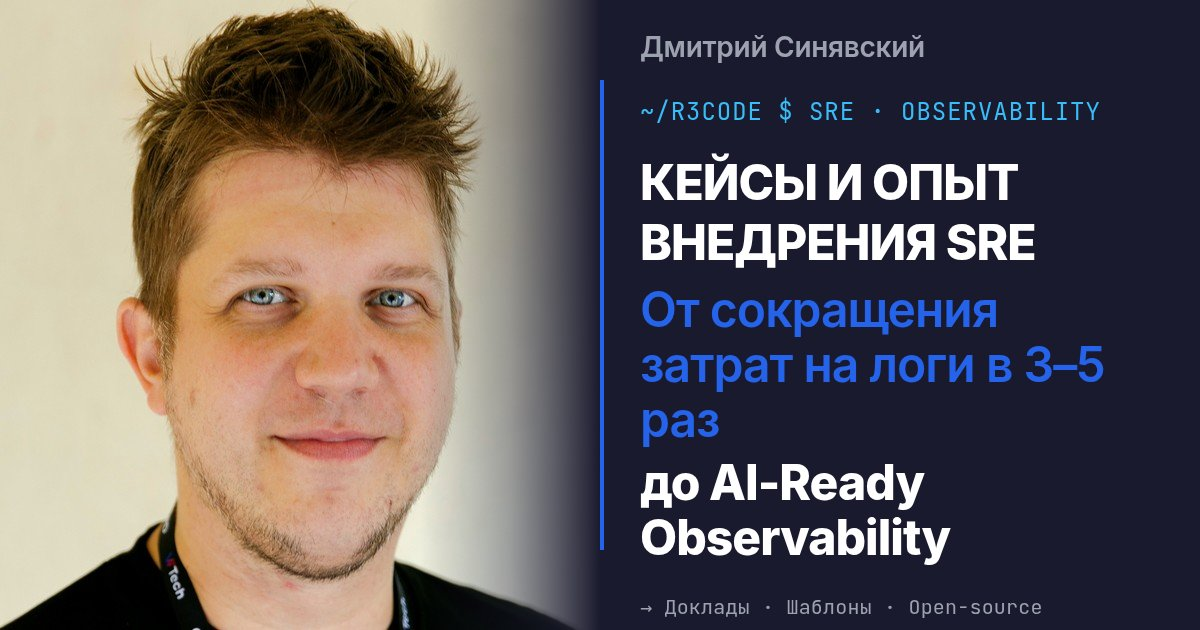
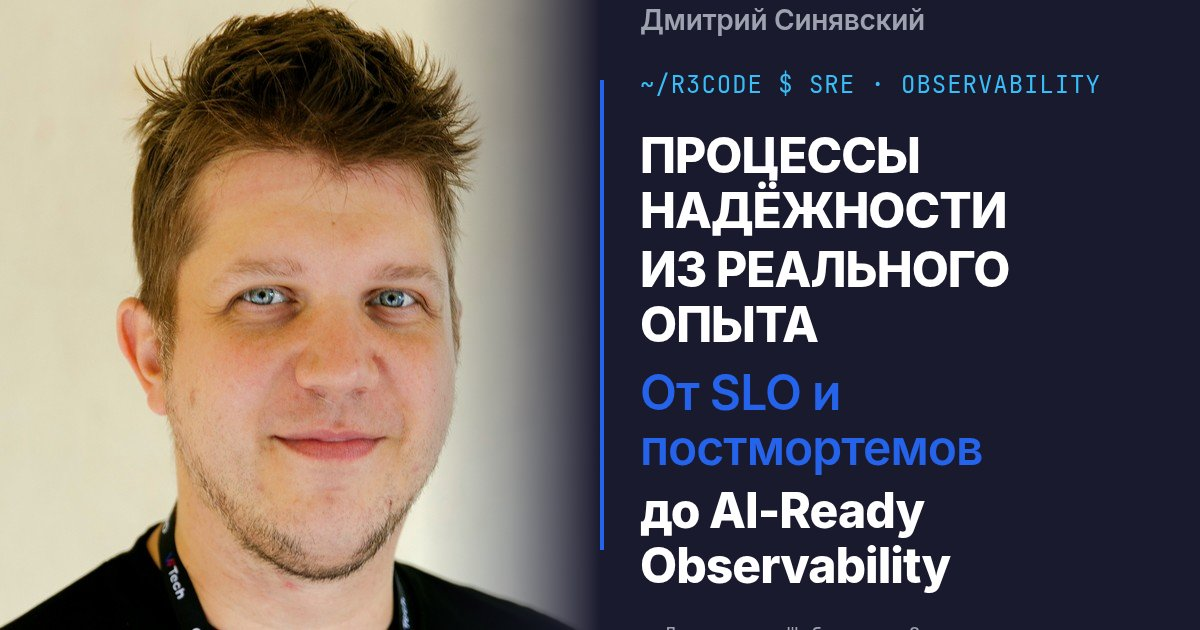
Sync <title>, OG metadata and OG image with new Hero H1
- BaseLayout <title>: «Кейсы и опыт внедрения SRE» → «SRE-практика: оптимизация логов, SLO, AI-Ready Observability»
- JSON-LD WebSite.name updated accordingly
- og:image:alt / twitter:image:alt updated to new H1 wording
- og_source.html headlines: «ПРОЦЕССЫ НАДЁЖНОСТИ / ИЗ РЕАЛЬНОГО ОПЫТА / От SLO и постмортемов / до AI-Ready Observability»
- public/og.jpg regenerated via Playwright (99090 bytes, all 3 pixel checks pass)
- docs/OG-IMAGE.md: composition diagram and font table updated

Changed region(s): [[0.5242, 0.1206, 0.925, 1.0], [0.5242, 0.0, 0.7708, 0.0905], [0.74, 0.9952, 0.7708, 1.0]]

diff --git a/scripts/og_source.html b/scripts/og_source.html
@@ -140,10 +140,10 @@
 
     <div class="eyebrow">~/R3CODE $ SRE · OBSERVABILITY</div>
 
-    <div class="headline headline-gap">КЕЙСЫ И ОПЫТ</div>
-    <div class="headline headline-gap">ВНЕДРЕНИЯ SRE</div>
+    <div class="headline headline-gap">ПРОЦЕССЫ НАДЁЖНОСТИ</div>
+    <div class="headline headline-gap">ИЗ РЕАЛЬНОГО ОПЫТА</div>
 
-    <div class="accent-line">От сокращения затрат на логи в 3–5 раз</div>
+    <div class="accent-line">От SLO и постмортемов</div>
 
     <div class="headline">до AI-Ready Observability</div>
 

diff --git a/docs/OG-IMAGE.md b/docs/OG-IMAGE.md
@@ -13,12 +13,13 @@ Telegram, LinkedIn, VK. Это первое, что видят — должно 
 │   ФОТО 600×630    │  ─────────────────  │
 │   (предобработано  │  ~/R3CODE $ SRE...  │
 │    в Python,       │                    │
-│    лицо видно       │  КЕЙСЫ И ОПЫТ      │
-│    полностью)       │  ВНЕДРЕНИЯ SRE     │
-│                    │  От сокращения...   │
-│   Градиент         │  до AI-Ready...    │
-│   на правом краю   │                    │
-│   фото (маска)     │  → Доклады · ...   │
+│    лицо видно       │  ПРОЦЕССЫ НАДЁЖ-   │
+│    полностью)       │  НОСТИ              │
+│                    │  ИЗ РЕАЛЬНОГО ОПЫТА │
+│   Градиент         │  От SLO и постморт. │
+│   на правом краю   │  до AI-Ready...    │
+│   фото (маска)     │                    │
+│                    │  → Доклады · ...   │
 │                    │                    │
 │   600px            │  600px             │
 └────────────────────┴────────────────────┘
@@ -49,9 +50,9 @@ Telegram, LinkedIn, VK. Это первое, что видят — должно 
 |---|---|---|---|
 | «Дмитрий Синявский» | Inter | 600 | 28px |
 | `~/R3CODE $ SRE · OBSERVABILITY` | JetBrains Mono | 400 | 24px |
-| «КЕЙСЫ И ОПЫТ» | Inter | 800 | 48px |
-| «ВНЕДРЕНИЯ SRE» | Inter | 800 | 48px |
-| «От сокращения затрат…» | Inter | 600 | 48px |
+| «ПРОЦЕССЫ НАДЁЖНОСТИ» | Inter | 800 | 48px |
+| «ИЗ РЕАЛЬНОГО ОПЫТА» | Inter | 800 | 48px |
+| «От SLO и постмортемов» | Inter | 600 | 48px |
 | «до AI-Ready Observability» | Inter | 800 | 48px |
 | «→ Доклады · Шаблоны · Open-source» | JetBrains Mono | 400 | 20px |
 
